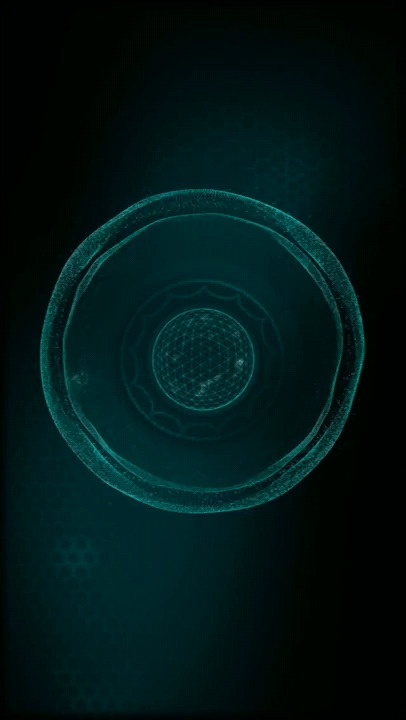
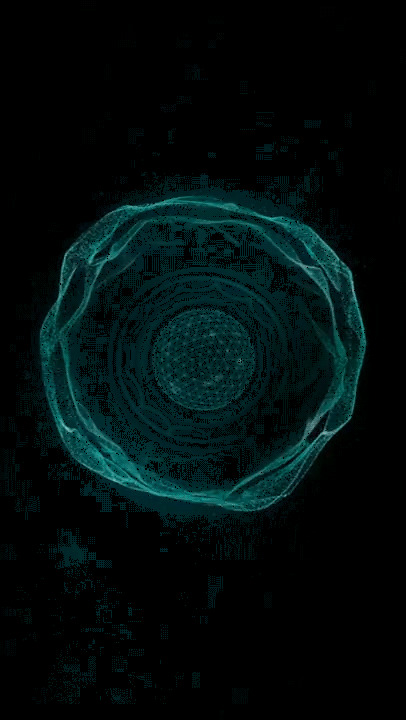
Jarvis animation bella

Changed region(s): [[0.0296, 0.1528, 0.9163, 1.0]]

diff --git a/main.py b/main.py
@@ -106,73 +106,67 @@ class imageHandler:
 
 def main_ui():
     global running
-    pg.init() # Initiates the display pygame da JarvisGUIPart 11.txt
+    pg.init() 
     screen = pg.display.set_mode((600, 600)) 
-    pg.display.set_caption("J.A.R.V.I.S.") #titolo finestra
+    pg.display.set_caption("J.A.R.V.I.S.") 
     clock = pg.time.Clock()
     
-    # Inizializza il gestore di immagini da 'JarvisGUIPart 11.txt'
     handler = imageHandler()
     center = (300, 300)
     
-    # Caricamento sequenziale delle immagini da 'JarvisGUIPart 11.txt'
-    # Sostituisci i percorsi segnaposto con le posizioni dei tuoi file .jpg reali
-    # handler.loadFromFile ( "c://jarvis/jarvisface/1.jpg", "1" ) da JarvisGUIPart 11.txt
-    for i in range(1, 11):
-        placeholder_path = f"jarvisface/{i}.jpg" # SEGNAPOSTO: imposta il percorso corretto
-        # Verifica se il file esiste prima di caricarlo per evitare crash
+    # --- IMPOSTA IL NUMERO TOTALE DI FOTOGRAMMI QUI ---
+    # Se hai estratto 30, 50 o 60 immagini dalla tua GIF, cambia questo numero!
+    totale_fotogrammi = 23
+    
+    for i in range(1, totale_fotogrammi + 1):
+        placeholder_path = f"jarvisface/{i}.jpg" 
         if os.path.exists(placeholder_path):
             handler.loadFromFile(placeholder_path, str(i))
         else:
             print(f"⚠ Avviso: File non trovato in {placeholder_path}")
 
-    current_frame_index = 1
-    frame_size = (500, 500) # Dimensione a cui ridimensionare i fotogrammi
-    # Calcola la posizione per centrare i fotogrammi (x, y) = (surface.get_width() / 2 - self.pics[id].get_width() / 2) da JarvisGUIPart 11.txt
+    frame_size = (500, 500) 
     frame_position = (center[0] - frame_size[0] // 2, center[1] - frame_size[1] // 2) 
+
+    # Variabile per contare i frame in modo fluido (usiamo i decimali)
+    current_frame_index = 1.0 
+    
+    # VELOCITÀ ANIMAZIONE: 0.5 significa che cambia immagine ogni 2 tick (circa 30 FPS effettivi)
+    # Alzalo (es. 0.8) per farla andare più veloce, abbassalo (es. 0.2) per rallentarla
+    velocita_animazione = 0.2 
 
     while running:
         for event in pg.event.get(): 
             if event.type == pg.QUIT: 
-                # Controlla se l'utente ha chiuso la finestra pigiando la x
-                os.system("killall say") # Uccide la voce istantaneamente
+                os.system("killall say") 
                 running = False 
                 os._exit(0)
 
-        # Sfondo nero (Blu molto scuro) da JarvisGUIPart 11.txt
         screen.fill((5, 2, 23))
 
-        # Logica di riproduzione dei fotogrammi in sequenza da 'JarvisGUIPart 11.txt'
-        current_frame_index_str = str(current_frame_index)
+        # Convertiamo il contatore decimale in un numero intero per prendere l'immagine
+        indice_intero = int(current_frame_index)
+        current_frame_index_str = str(indice_intero)
         
-        # Verifica se il fotogramma è caricato correttamente
         if current_frame_index_str in handler.pics:
-            # handler.render ( screen, "1", ( A, B ), True, ( x, y ) ) da JarvisGUIPart 11.txt
             handler.render(screen, current_frame_index_str, frame_position, clear=False, size=frame_size)
             
-            # Incrementa l'indice per mostrare il fotogramma successivo al prossimo ciclo
-            # Questo ricrea la sequenza "1", "2", "3" ecc. da 'JarvisGUIPart 11.txt'
-            current_frame_index += 1
-            if current_frame_index > 10:
-                current_frame_index = 1 # Ripete la sequenza video
+            # Incrementiamo il contatore usando la velocità personalizzata
+            current_frame_index += velocita_animazione
             
-            # pygame.display.update(30,300,1024,768) da JarvisGUIPart 11.txt
-            pg.display.flip() 
-            # time.sleep(.2) da JarvisGUIPart 11.txt. 
-            # Invece di sleep, usiamo pg.time.wait(.2 * 1000) o clock.tick per performance migliori in un multi-thread
-            pg.time.wait(int(0.2 * 1000)) # Pausa di 0.2 secondi tra i fotogrammi da 'JarvisGUIPart 11.txt'
-            
+            # Se superiamo il numero totale di fotogrammi, ricominciamo da 1
+            if current_frame_index >= totale_fotogrammi + 1:
+                current_frame_index = 1.0 
         else:
-            # Se un fotogramma non è caricato, mostra un'interfaccia di fallback semplice
             pg.draw.circle(screen, (0, 100, 150), center, 100, 2)
-            pg.display.flip() 
 
-        # clock.tick(60) rimosso per permettere a pg.time.wait() di controllare il timing esatto da JarvisGUIPart 11.txt
+        pg.display.flip() 
+        # Fissiamo il programma a 60 FPS costanti, eliminando i vecchi "wait" o "sleep"
+        clock.tick(60) 
     
     pg.quit()
-    os.system("killall say") # Chiude forzatamente anche il thread vocale
+    os.system("killall say") 
     os._exit(0)
-
 
 def logica_jarvis():
     global running
